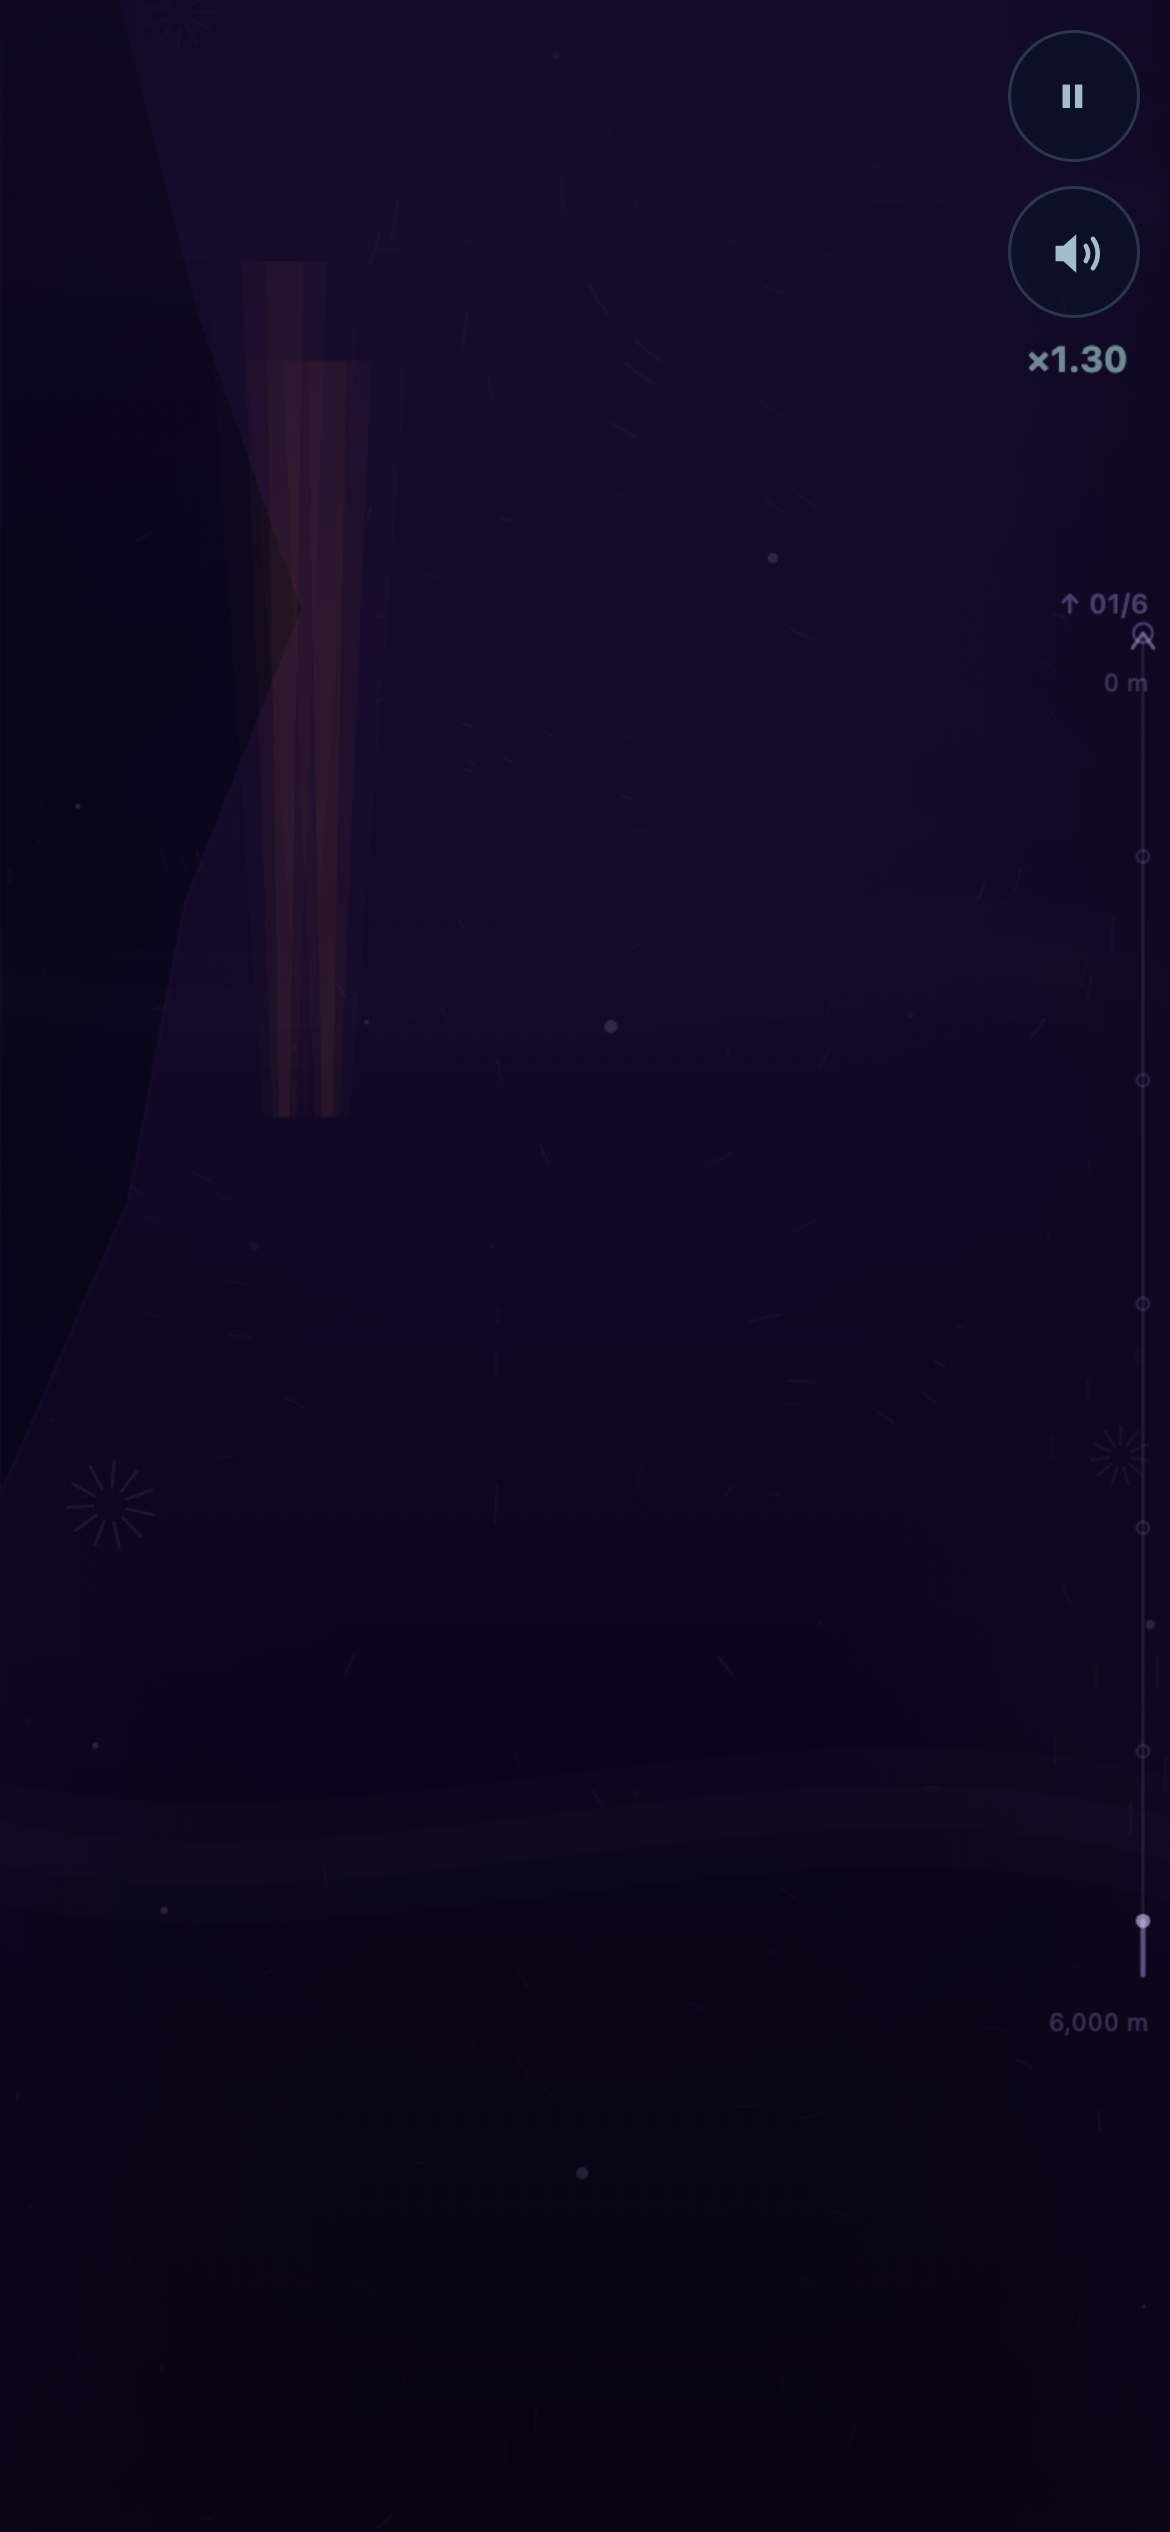
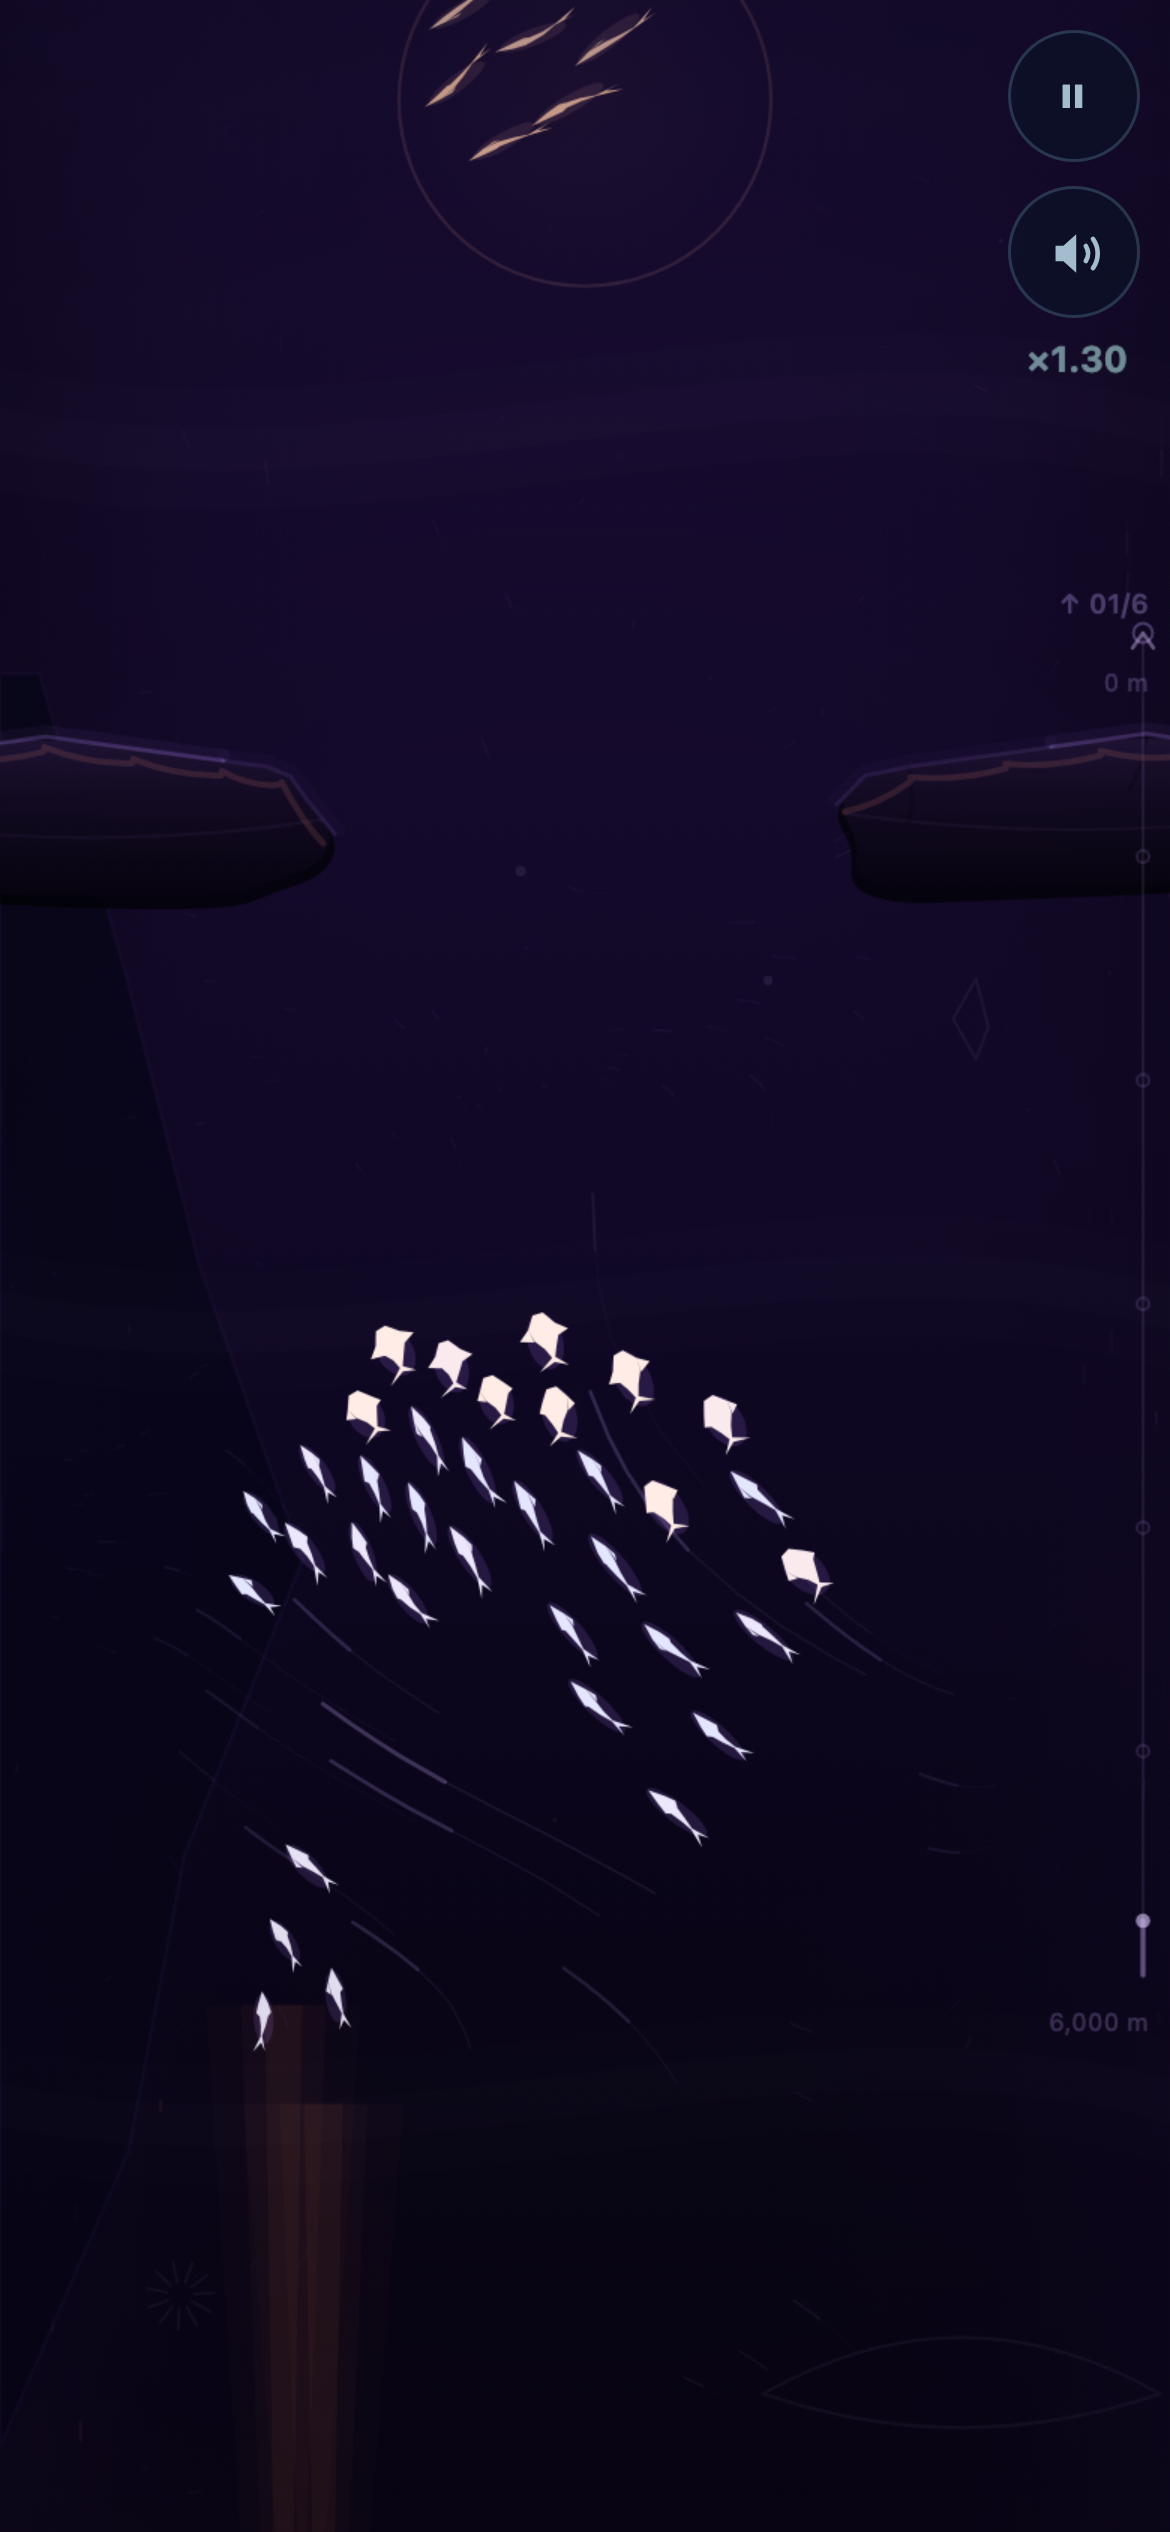
fix: a hand-stepped frame draws where the rules are, so the rock and the rescue are on screen
The README's 03-rock and 04-rescue were frames of empty water - no shoal, no
course - for as long as the drawn camera has eased toward the simulated one.
The ease closes at three drifts a second, which is right for a 100 px
discontinuity in play; __slowblue.advance steps seven seconds in one call and
moves the simulated camera a thousand pixels, so the drawing was still seconds
behind when the screenshot was taken. advanceView's own comment said the
screenshot pass sees the rules' camera, which was true only until the first
rAF frame established a drawn one.

World.snapView() marks the move as a jump, the way a reset and a rotation
already do, and the advance hook calls it. Play is untouched: only the hook
snaps. Both screens are re-shot; the other nine are left as they were, since
the capture is not deterministic and nothing else in them changed.

e2e: 76 passed, and the three that fail are the three named in CLAUDE.md.

diff --git a/src/sim/World.ts b/src/sim/World.ts
@@ -841,6 +841,24 @@ export class World {
   }
 
   /**
+   * Declares the camera's last move a jump: the next frame draws where the rules
+   * are, instead of easing there.
+   *
+   * For whoever steps the simulation by hand, which is `__slowblue.advance` and
+   * everything driving it. The ease is sized for a ~100 px discontinuity and closes
+   * at three drifts a second; a hook that steps seven seconds in one call moves the
+   * simulated camera a thousand pixels, and the drawing then spends longer than any
+   * screenshot waits catching up - so the frame showed the water the shoal had left
+   * seconds earlier, with neither shoal nor course in it. That is what
+   * `docs/screens/03-rock.png` and `04-rescue.png` were for as long as this ease has
+   * existed, and the comment below saying the screenshot pass sees the rules'
+   * camera was true only until the first rAF frame established a drawn one.
+   */
+  snapView(): void {
+    this.drawCameraY = Number.NaN;
+  }
+
+  /**
    * The camera as the *drawing* sees it. The simulation keeps reading `cameraY`.
    *
    * Falls back to the interpolated simulation camera when no frame has run

diff --git a/tests/world.test.ts b/tests/world.test.ts
@@ -185,6 +185,22 @@ describe('World lifecycle', () => {
     expect(world.viewCameraY).toBeCloseTo(world.cameraY, 6);
   });
 
+  it('draws where the rules are after the simulation is stepped by hand', () => {
+    // `__slowblue.advance` steps seconds in one call. Without the snap the drawn
+    // camera spent several real seconds closing a thousand-pixel gap, and the
+    // README's rock and rescue screenshots were frames of empty water.
+    const world = makeWorld();
+    drive(world, 60);
+    world.advanceView(1, 1 / 60);
+    drive(world, 420);
+    world.advanceView(1, 1 / 60);
+    expect(Math.abs(world.viewCameraY - world.cameraY)).toBeGreaterThan(100);
+
+    world.snapView();
+    world.advanceView(1, 1 / 60);
+    expect(world.viewCameraY).toBeCloseTo(world.cameraY, 6);
+  });
+
   it('loses individuals to rocks without ending the run', () => {
     const world = makeWorld(7);
     const blob = world.obstacles.activeBlobs[Math.floor(world.obstacles.activeBlobs.length / 2)]!;

diff --git a/src/main.ts b/src/main.ts
@@ -1493,6 +1493,9 @@ window.__slowblue = {
   advance: (seconds) => {
     const steps = Math.max(1, Math.round(seconds / loop.fixedDt));
     for (let i = 0; i < steps; i++) world.step(loop.fixedDt);
+    // However far that was, it was a jump: a frame eased across it would show the
+    // water the shoal left seconds ago. See `World.snapView`.
+    world.snapView();
     renderer.ingest(world.takeEvents());
     renderer.render(world, 0, loop.fixedDt, flags, loop.stats.fps);
     // The bed as well as the picture. This hook exists so a station can be looked
